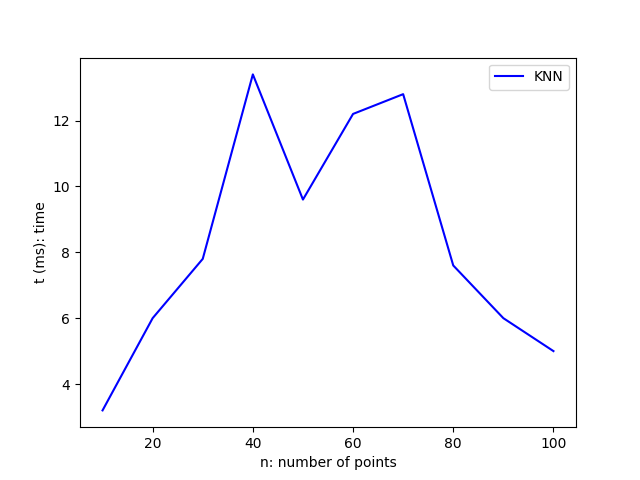
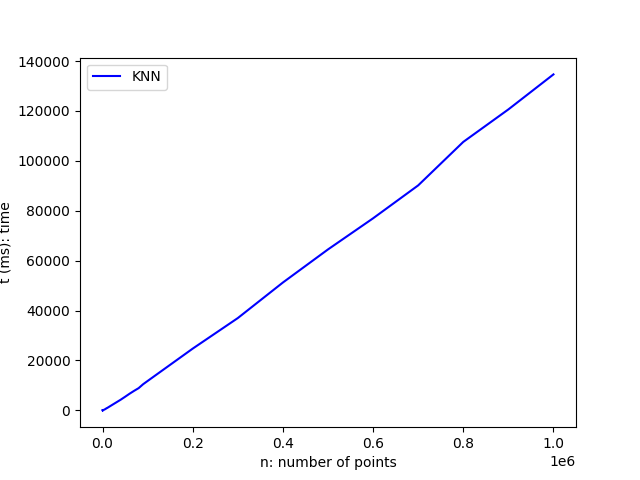
docs(graphic)

diff --git a/graphics/take-times.cpp b/graphics/take-times.cpp
@@ -33,16 +33,18 @@ int main () {
   // reading
   std::ofstream file;
   file.open(FILE_NAME, std::ios::out | std::ios::trunc);
-  const int N = 1e2;
-  const int STEP = 10;
+  const int N = 1e6;
   const int ITERATIONS = 5;
-  for (int n = STEP; n <= N; n += STEP) {
+  int n = 1;
+  while (n <= N) {
     file << n;
     for (int it = 0; it < ITERATIONS; it++) {
       file << ' ' << simulate(n);
     }
     file << '\n';
     file.flush();
+    int log = std::log10(n);
+    n += pow(10, log);
   }
   file.close();
   return (0);
